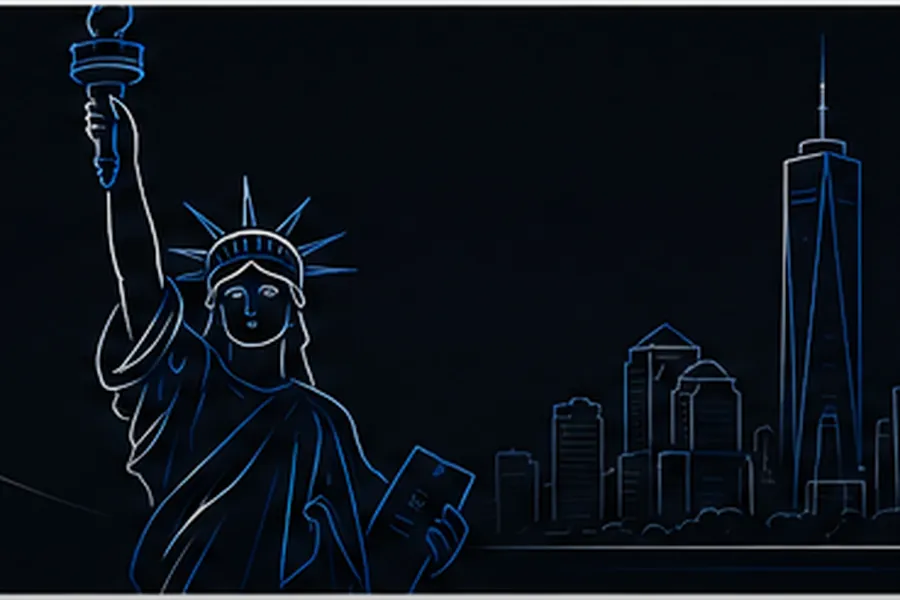
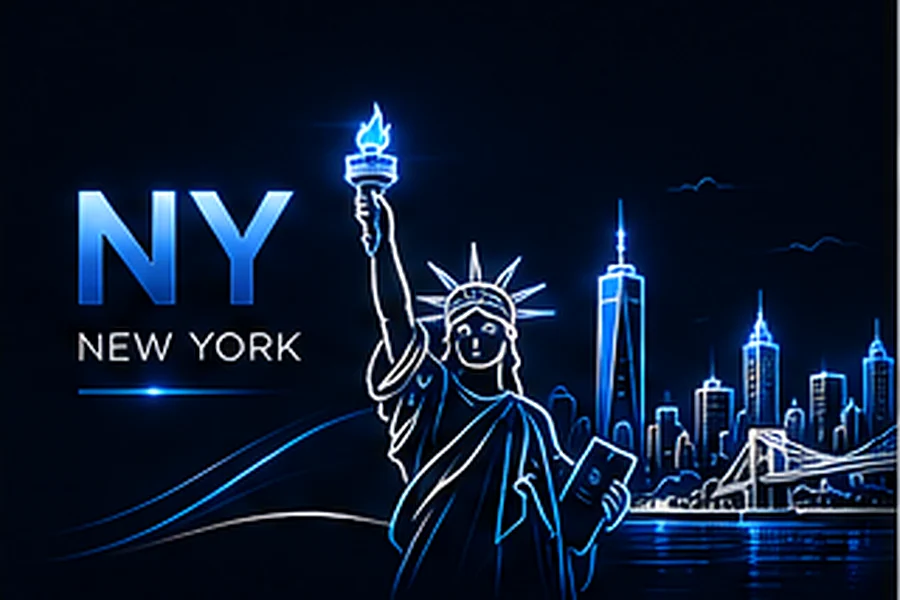
feat: per-state hub hero assets and restore homepage hero balance

diff --git a/index.html b/index.html
@@ -123,7 +123,8 @@ body{background:var(--bg0);color:var(--tx);font-family:var(--fb);font-size:15px;
 }
 
 /* ── HERO ── */
-.hero{min-height:100vh;background:var(--bg0);display:flex;align-items:center;justify-content:center;text-align:center;padding:100px 20px 60px;position:relative;overflow:hidden}
+.hero{min-height:100vh;background:linear-gradient(180deg,#020b18,#030d1a,var(--bg0));display:flex;align-items:center;justify-content:center;text-align:center;padding:100px 20px 60px;position:relative;overflow:hidden}
+.hero::before{content:'';position:absolute;inset:0;background:radial-gradient(ellipse 80% 60% at 50% 10%,rgba(77,163,255,.16),transparent);pointer-events:none}
 .hero-badge{display:inline-flex;align-items:center;gap:8px;font-size:11.5px;font-weight:600;letter-spacing:.18em;text-transform:uppercase;color:var(--blue);border:1px solid var(--bbr);background:var(--bdim);padding:6px 18px;border-radius:999px;margin-bottom:20px}
 .hero h1{font-family:var(--fd);font-size:clamp(60px,13vw,130px);line-height:.88;color:var(--white);margin-bottom:16px;letter-spacing:.01em}
 .hero h1 em{color:var(--blue);font-style:normal}
@@ -850,8 +851,12 @@ footer{background:var(--bg1);border-top:1px solid rgba(255,255,255,.05);padding:
 .nav-brand-img{display:flex;align-items:center;text-decoration:none;line-height:0}
 .nav-logo-img{height:52px;width:auto;max-width:245px;object-fit:contain;display:block;filter:drop-shadow(0 8px 18px rgba(0,0,0,.45))}
 .foot-logo-img{height:58px;width:auto;max-width:270px;object-fit:contain;display:block;margin-bottom:12px;filter:drop-shadow(0 8px 18px rgba(0,0,0,.38))}
-.hero{background:var(--bg0)}
-.hero::before{content:'';position:absolute;inset:0;background-image:url("assets/hero-mobile-detailing.webp");background-size:cover;background-position:center center;background-repeat:no-repeat;filter:brightness(1.1);pointer-events:none;z-index:0}
+.hero{background:
+  linear-gradient(90deg,rgba(2,4,10,.90) 0%,rgba(2,4,10,.72) 43%,rgba(2,4,10,.28) 100%),
+  linear-gradient(180deg,rgba(2,11,24,.40),rgba(3,13,26,.45),var(--bg0)),
+  url("assets/hero-mobile-detailing.webp") center right/cover no-repeat !important;
+}
+.hero::before{background:radial-gradient(ellipse 70% 60% at 38% 18%,rgba(77,163,255,.22),transparent),linear-gradient(180deg,transparent 72%,var(--bg0) 100%) !important}
 .hero > *{position:relative;z-index:1}
 .hero-brand-mark{display:flex;justify-content:center;margin-bottom:20px}
 .hero-brand-mark img{height:92px;width:auto;max-width:min(430px,88vw);object-fit:contain;filter:drop-shadow(0 14px 32px rgba(0,0,0,.62))}
@@ -1410,7 +1415,10 @@ a.loc-card.loc-card-link{display:block;color:inherit;text-decoration:none}
 .section-full,.ba-section,#reviews,#how{content-visibility:auto;contain-intrinsic-size:900px}
 @media(max-width:980px){.specialty-grid{grid-template-columns:repeat(2,minmax(0,1fr))}}
 @media(max-width:680px){
-  .hero::before{background-image:url("assets/hero-mobile-detailing-720.webp")}
+  .hero{background:
+    linear-gradient(90deg,rgba(2,4,10,.94) 0%,rgba(2,4,10,.75) 55%,rgba(2,4,10,.36) 100%),
+    linear-gradient(180deg,rgba(2,11,24,.45),rgba(3,13,26,.52),var(--bg0)),
+    url("assets/hero-mobile-detailing-720.webp") 62% center/cover no-repeat !important}
   .visual-panel-img{background-image:url("assets/services-vehicles-640.webp")}
   .specialty-lead{grid-template-columns:1fr;gap:18px}
   .specialty-grid{grid-template-columns:1fr}

diff --git a/assets/hub-styles.css b/assets/hub-styles.css
@@ -10,11 +10,10 @@
   inset: 0;
   z-index: 0;
   background-size: cover;
-  background-position: center;
+  background-position: center center;
   background-repeat: no-repeat;
   pointer-events: none;
-  filter: brightness(0.85) contrast(1.1);
-  opacity: 0.45;
+  filter: brightness(1.2) contrast(1.1);
 }
 
 .hero-bg-desktop::after,
@@ -22,10 +21,8 @@
   content: '';
   position: absolute;
   inset: 0;
-  opacity: 1;
-  background:
-    linear-gradient(90deg, rgba(2, 4, 10, 0.78) 0%, rgba(2, 4, 10, 0.58) 43%, rgba(2, 4, 10, 0.22) 100%),
-    linear-gradient(180deg, rgba(2, 11, 24, 0.32), rgba(3, 13, 26, 0.38), var(--bg0));
+  background: linear-gradient(rgba(0, 0, 0, 0.4), rgba(0, 0, 0, 0.4));
+  pointer-events: none;
 }
 
 .hero-bg-mobile {
@@ -49,43 +46,45 @@
   .hero-bg-mobile {
     display: block;
   }
-
-  .hero-bg-mobile::after {
-    background:
-      linear-gradient(90deg, rgba(2, 4, 10, 0.82) 0%, rgba(2, 4, 10, 0.62) 55%, rgba(2, 4, 10, 0.28) 100%),
-      linear-gradient(180deg, rgba(2, 11, 24, 0.36), rgba(3, 13, 26, 0.44), var(--bg0));
-  }
 }
 
-/* NJ counties share NJ header assets (from imagens estados → assets/hubs/) */
+/* ── Hub Background Assets (state line-art headers from imagens estados) ── */
+.hub-nj .hero-bg-desktop,
 .hero--nj .hero-bg-desktop {
   background-image: url('hubs/hero-nj-desktop.webp');
 }
 
+.hub-nj .hero-bg-mobile,
 .hero--nj .hero-bg-mobile {
   background-image: url('hubs/hero-nj-mobile.webp');
 }
 
+.hub-ny .hero-bg-desktop,
 .hero--ny .hero-bg-desktop {
   background-image: url('hubs/hero-ny-desktop.webp');
 }
 
+.hub-ny .hero-bg-mobile,
 .hero--ny .hero-bg-mobile {
   background-image: url('hubs/hero-ny-mobile.webp');
 }
 
+.hub-ct .hero-bg-desktop,
 .hero--ct .hero-bg-desktop {
   background-image: url('hubs/hero-ct-desktop.webp');
 }
 
+.hub-ct .hero-bg-mobile,
 .hero--ct .hero-bg-mobile {
   background-image: url('hubs/hero-ct-mobile.webp');
 }
 
+.hub-pa .hero-bg-desktop,
 .hero--pa .hero-bg-desktop {
   background-image: url('hubs/hero-pa-desktop.webp');
 }
 
+.hub-pa .hero-bg-mobile,
 .hero--pa .hero-bg-mobile {
   background-image: url('hubs/hero-pa-mobile.webp');
 }

diff --git a/bergen-county-hub.html b/bergen-county-hub.html
@@ -1441,7 +1441,7 @@ a.loc-card.loc-card-link{display:block;color:inherit;text-decoration:none}
 </nav>
 
 <!-- HERO -->
-<section class="hero hero--nj">
+<section class="hero hero--nj hub-nj">
   <div class="hero-bg-desktop" aria-hidden="true"></div>
   <div class="hero-bg-mobile" aria-hidden="true"></div>
   <div>

diff --git a/connecticut-hub.html b/connecticut-hub.html
@@ -1439,7 +1439,7 @@ a.loc-card.loc-card-link{display:block;color:inherit;text-decoration:none}
 </nav>
 
 <!-- HERO -->
-<section class="hero hero--ct">
+<section class="hero hero--ct hub-ct">
   <div class="hero-bg-desktop" aria-hidden="true"></div>
   <div class="hero-bg-mobile" aria-hidden="true"></div>
   <div>

diff --git a/essex-county-hub.html b/essex-county-hub.html
@@ -1441,7 +1441,7 @@ a.loc-card.loc-card-link{display:block;color:inherit;text-decoration:none}
 </nav>
 
 <!-- HERO -->
-<section class="hero hero--nj">
+<section class="hero hero--nj hub-nj">
   <div class="hero-bg-desktop" aria-hidden="true"></div>
   <div class="hero-bg-mobile" aria-hidden="true"></div>
   <div>

diff --git a/hudson-county-hub.html b/hudson-county-hub.html
@@ -1441,7 +1441,7 @@ a.loc-card.loc-card-link{display:block;color:inherit;text-decoration:none}
 </nav>
 
 <!-- HERO -->
-<section class="hero hero--nj">
+<section class="hero hero--nj hub-nj">
   <div class="hero-bg-desktop" aria-hidden="true"></div>
   <div class="hero-bg-mobile" aria-hidden="true"></div>
   <div>

diff --git a/ny-metro-hub.html b/ny-metro-hub.html
@@ -1441,7 +1441,7 @@ a.loc-card.loc-card-link{display:block;color:inherit;text-decoration:none}
 </nav>
 
 <!-- HERO -->
-<section class="hero hero--ny">
+<section class="hero hero--ny hub-ny">
   <div class="hero-bg-desktop" aria-hidden="true"></div>
   <div class="hero-bg-mobile" aria-hidden="true"></div>
   <div>

diff --git a/passaic-county-hub.html b/passaic-county-hub.html
@@ -1441,7 +1441,7 @@ a.loc-card.loc-card-link{display:block;color:inherit;text-decoration:none}
 </nav>
 
 <!-- HERO -->
-<section class="hero hero--nj">
+<section class="hero hero--nj hub-nj">
   <div class="hero-bg-desktop" aria-hidden="true"></div>
   <div class="hero-bg-mobile" aria-hidden="true"></div>
   <div>

diff --git a/pennsylvania-hub.html b/pennsylvania-hub.html
@@ -1439,7 +1439,7 @@ a.loc-card.loc-card-link{display:block;color:inherit;text-decoration:none}
 </nav>
 
 <!-- HERO -->
-<section class="hero hero--pa">
+<section class="hero hero--pa hub-pa">
   <div class="hero-bg-desktop" aria-hidden="true"></div>
   <div class="hero-bg-mobile" aria-hidden="true"></div>
   <div>
